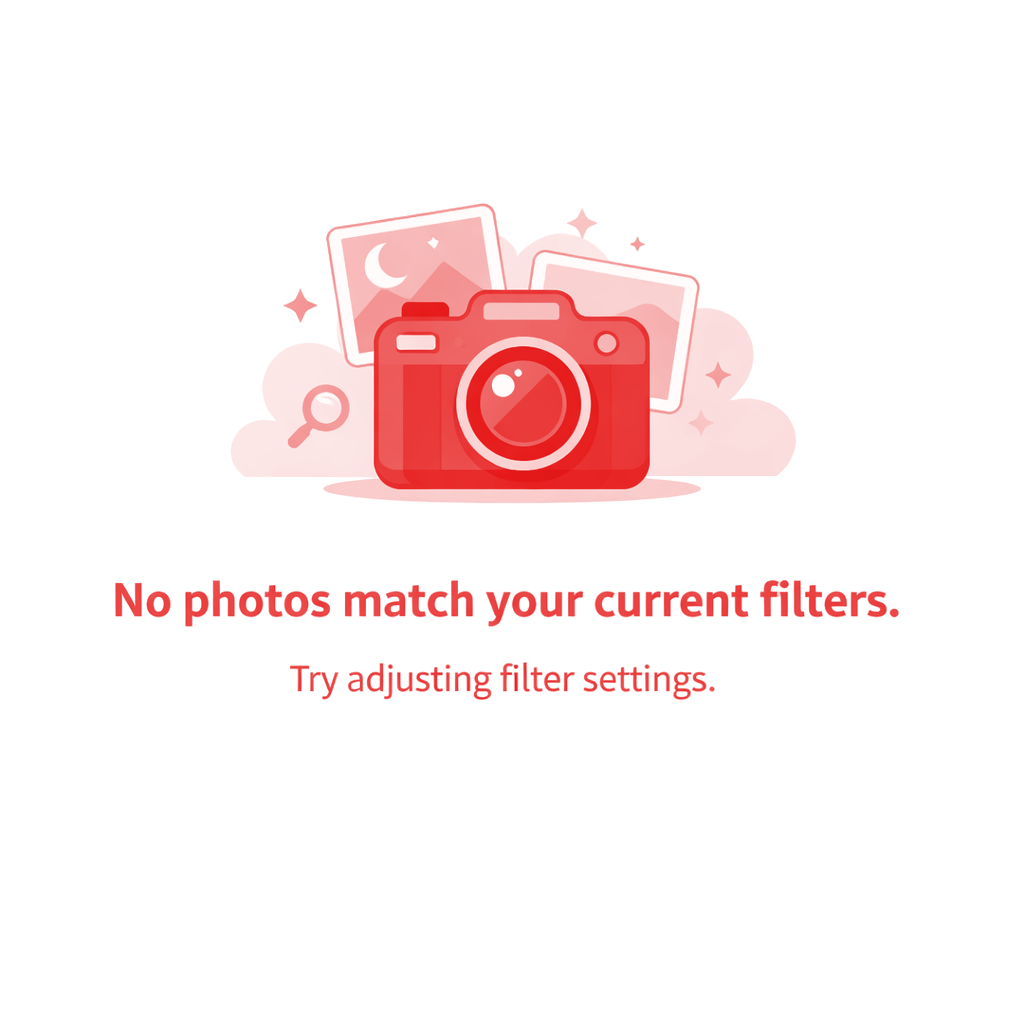
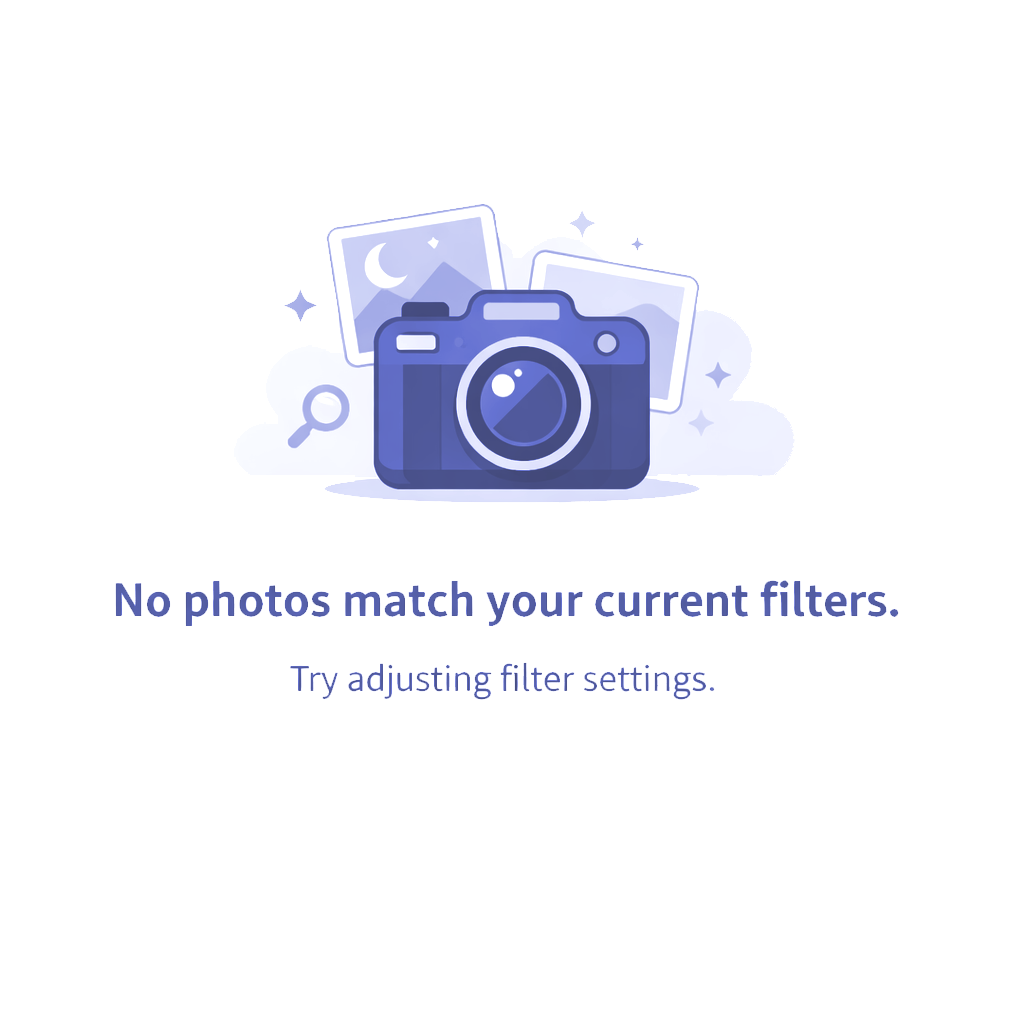
zmenene css appky + prisposebena farba placeholder picture

Changed region(s): [[0.2188, 0.1875, 0.7812, 0.5], [0.0938, 0.5625, 0.875, 0.625], [0.2812, 0.6562, 0.6875, 0.6875]]

diff --git a/src/PhotoTableModel.cpp b/src/PhotoTableModel.cpp
@@ -380,6 +380,7 @@ QVariant PhotoTableModel::getDisplayText(const Photo& photo, int column) const
     }
 }
 
+
 QVariant PhotoTableModel::getDecoration(const Photo& photo, int column) const 
 {
 	// Preview column shows the photo thumbnail
@@ -394,13 +395,13 @@ QVariant PhotoTableModel::getDecoration(const Photo& photo, int column) const
         if (displayPixmap.isNull()) 
         {
             displayPixmap = QPixmap(photo.filePath()).scaled(
-                90, 90, Qt::KeepAspectRatio, Qt::SmoothTransformation
+                62, 62, Qt::KeepAspectRatio, Qt::SmoothTransformation
             );
         }
 		else  // Scale existing pixmap
         {
             displayPixmap = displayPixmap.scaled(
-                90, 90, Qt::KeepAspectRatio, Qt::SmoothTransformation
+                62, 62, Qt::KeepAspectRatio, Qt::SmoothTransformation
             );
         }
 
@@ -416,6 +417,8 @@ QVariant PhotoTableModel::getDecoration(const Photo& photo, int column) const
 
     return QVariant();
 }
+
+
 
 
 QVariant PhotoTableModel::getTooltip(const Photo& photo, int column) const 

diff --git a/src/TSS_App.cpp b/src/TSS_App.cpp
@@ -23,7 +23,7 @@ TSS_App::TSS_App(QWidget* parent)
     ui.tableView->setEditTriggers(QAbstractItemView::DoubleClicked | QAbstractItemView::SelectedClicked);
     ui.tableView->setSelectionBehavior(QAbstractItemView::SelectRows);
     ui.tableView->verticalHeader()->hide();
-    ui.tableView->verticalHeader()->setDefaultSectionSize(70);
+    ui.tableView->verticalHeader()->setDefaultSectionSize(75);
 
     // Enable sorting
     ui.tableView->setSortingEnabled(true);
@@ -32,7 +32,7 @@ TSS_App::TSS_App(QWidget* parent)
     ui.tableView->sortByColumn(PhotoTableModel::DateTime, Qt::DescendingOrder);
 
     // Set column widths
-    ui.tableView->setColumnWidth(PhotoTableModel::Preview, 110);
+    ui.tableView->setColumnWidth(PhotoTableModel::Preview, 60);
     ui.tableView->setColumnWidth(PhotoTableModel::Name, 245);
     ui.tableView->setColumnWidth(PhotoTableModel::Tag, 75);
     ui.tableView->setColumnWidth(PhotoTableModel::Rating, 95);

diff --git a/src/Photo.h b/src/Photo.h
@@ -161,7 +161,7 @@ public:
      * The thumbnail is cached internally and can be retrieved using preview().
      * This function does not modify the original image file.
      */
-    void generatePreview(int size = 90);
+    void generatePreview(int size = 75);
 
     /**
      * @brief Sets a custom edited version of the photo.
